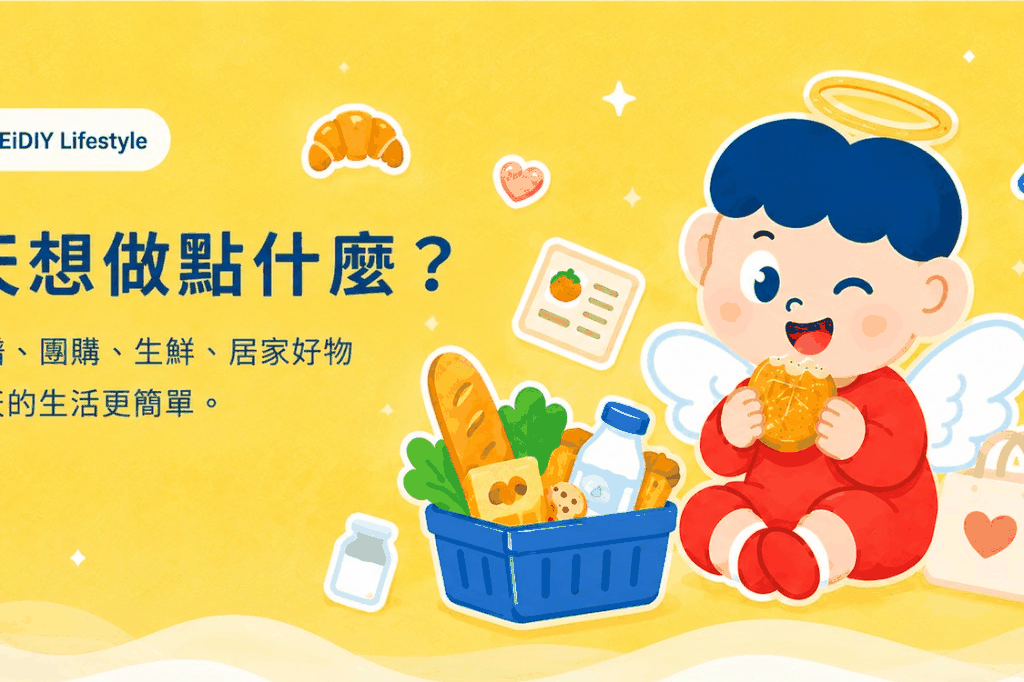
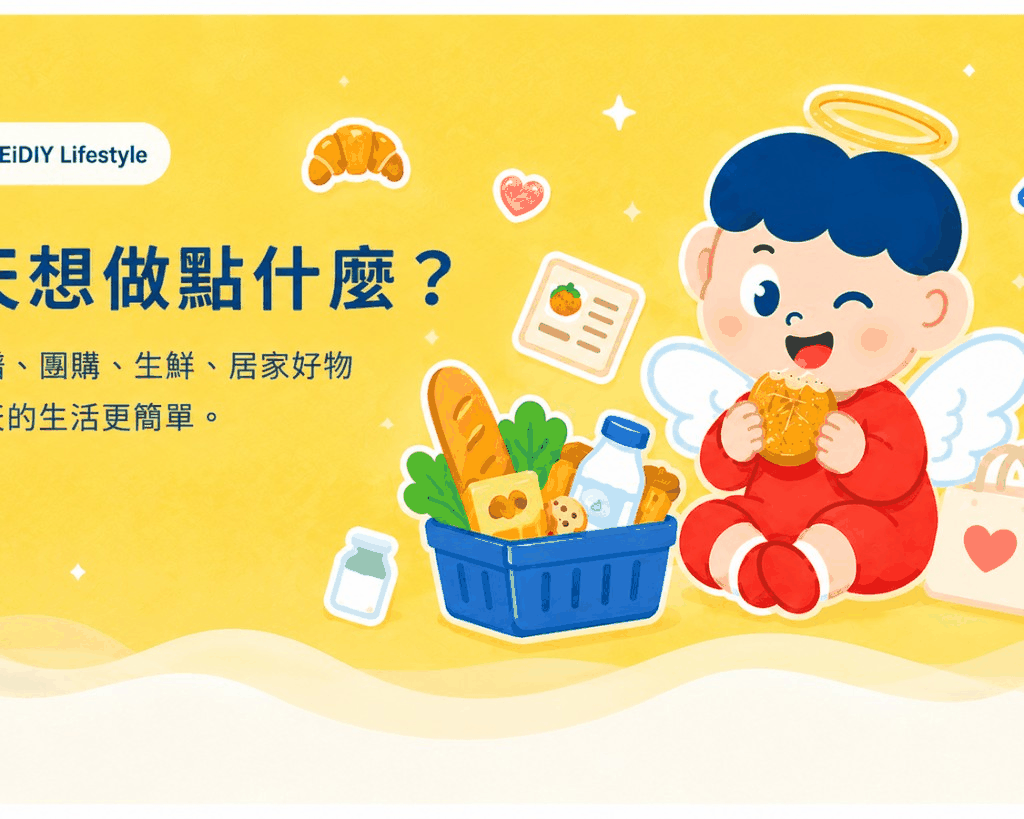
fix(home): show full mobile hero image without left/right crop
Use the uncropped 1024×819 mobile asset with intrinsic width/height, dedicated mobile CSS, and stop falling back to the desktop banner on phones.

diff --git a/src/components/home/ResponsiveHeroImage.tsx b/src/components/home/ResponsiveHeroImage.tsx
@@ -1,6 +1,10 @@
 "use client";
 
-import type { HomeHeroObjectPosition } from "@/types/home-hero";
+import {
+  HOME_HERO_MOBILE_HEIGHT,
+  HOME_HERO_MOBILE_WIDTH,
+  type HomeHeroObjectPosition,
+} from "@/types/home-hero";
 
 function toObjectPosition(pos?: HomeHeroObjectPosition | null): string {
   switch (pos) {
@@ -18,9 +22,8 @@ function toObjectPosition(pos?: HomeHeroObjectPosition | null): string {
 }
 
 /**
- * Show the full banner art — never crop left/right.
- * Mobile: scales to viewport width with intrinsic height.
- * Desktop: object-contain inside clamp height.
+ * Mobile must never crop — intrinsic dimensions + contain.
+ * Desktop uses height clamp with contain.
  */
 export function ResponsiveHeroImage({
   desktopUrl,
@@ -40,16 +43,22 @@ export function ResponsiveHeroImage({
 
   return (
     <div className="relative z-0 w-full bg-[#FFD454]">
-      {/* eslint-disable-next-line @next/next/no-img-element */}
-      <img
-        src={mobileUrl}
-        alt={alt}
-        className="block w-full max-w-full md:hidden"
-        style={{ height: "auto", objectPosition: mobilePos }}
-        decoding="async"
-        fetchPriority="high"
-      />
+      {/* Mobile: explicit intrinsic ratio — browser scales width only, never crops sides */}
+      <div className="w-full md:hidden">
+        {/* eslint-disable-next-line @next/next/no-img-element */}
+        <img
+          src={mobileUrl}
+          alt={alt}
+          width={HOME_HERO_MOBILE_WIDTH}
+          height={HOME_HERO_MOBILE_HEIGHT}
+          className="home-hero-mobile-img block h-auto w-full max-w-full"
+          style={{ objectFit: "contain", objectPosition: mobilePos }}
+          decoding="async"
+          fetchPriority="high"
+        />
+      </div>
 
+      {/* Desktop */}
       <div
         className="relative hidden w-full md:block"
         style={{ height: "clamp(420px, 48vw, 720px)" }}
@@ -58,11 +67,8 @@ export function ResponsiveHeroImage({
         <img
           src={desktopUrl}
           alt={alt}
-          className="h-full w-full select-none"
-          style={{
-            objectFit: "contain",
-            objectPosition: desktopPos,
-          }}
+          className="h-full w-full"
+          style={{ objectFit: "contain", objectPosition: desktopPos }}
           decoding="async"
           fetchPriority="high"
         />

diff --git a/src/components/home/HomeHeroSection.tsx b/src/components/home/HomeHeroSection.tsx
@@ -45,7 +45,6 @@ function mapApiToHomeHero(raw: Record<string, unknown> | null): HomeHeroData {
   const mobile =
     (typeof raw.mobileImageUrl === "string" && raw.mobileImageUrl) ||
     (typeof raw.mobile_image_url === "string" && raw.mobile_image_url) ||
-    desktop ||
     base.mobileImageUrl;
 
   const imagePosition =
@@ -133,11 +132,11 @@ export function HomeHeroSection() {
   }, []);
 
   const desktopUrl = data.desktopImageUrl || HOME_HERO_DESKTOP_IMAGE;
-  const mobileUrl = data.mobileImageUrl || desktopUrl || HOME_HERO_MOBILE_IMAGE;
+  const mobileUrl = data.mobileImageUrl || HOME_HERO_MOBILE_IMAGE;
   const alt = data.imageAlt || "CHIMEiDIY Lifestyle 首頁主視覺";
 
   return (
-    <section className="relative w-full overflow-x-hidden bg-[#FFFEFA]" aria-label="首頁主視覺">
+    <section className="relative w-full bg-[#FFFEFA]" aria-label="首頁主視覺">
       {/* Yellow canvas + image + overlays */}
       <div
         className="relative w-full bg-[#FFD454]"

diff --git a/src/types/home-hero.ts b/src/types/home-hero.ts
@@ -32,13 +32,15 @@ export type HomeHeroData = {
   enabled?: boolean;
 };
 
-export const HOME_HERO_DESKTOP_IMAGE = "/brand/hero-home-desktop.png?v=20260730f";
-export const HOME_HERO_MOBILE_IMAGE = "/brand/hero-home-mobile.png?v=20260730f";
+export const HOME_HERO_DESKTOP_IMAGE = "/brand/hero-home-desktop.png?v=20260730g";
+export const HOME_HERO_MOBILE_IMAGE = "/brand/hero-home-mobile.png?v=20260730g";
 
 /** Trimmed desktop asset ≈ 1024×479 */
 export const HOME_HERO_DESKTOP_ASPECT = "1024 / 479";
-/** Trimmed mobile asset ≈ 1024×682 */
-export const HOME_HERO_MOBILE_ASPECT = "1024 / 682";
+/** Full mobile asset 1024×819 (5:4) */
+export const HOME_HERO_MOBILE_ASPECT = "1024 / 819";
+export const HOME_HERO_MOBILE_WIDTH = 1024;
+export const HOME_HERO_MOBILE_HEIGHT = 819;
 
 export const HOME_HERO_DEFAULTS: HomeHeroData = {
   title: "今天想做點什麼？",

diff --git a/src/app/globals.css b/src/app/globals.css
@@ -77,6 +77,15 @@
     max-width: 100%;
   }
 
+  /* Home hero mobile — never crop banner art horizontally */
+  .home-hero-mobile-img {
+    width: 100% !important;
+    height: auto !important;
+    max-width: 100% !important;
+    object-fit: contain;
+    object-position: center top;
+  }
+
   /* Tables / pre that could force page width */
   table {
     max-width: 100%;
